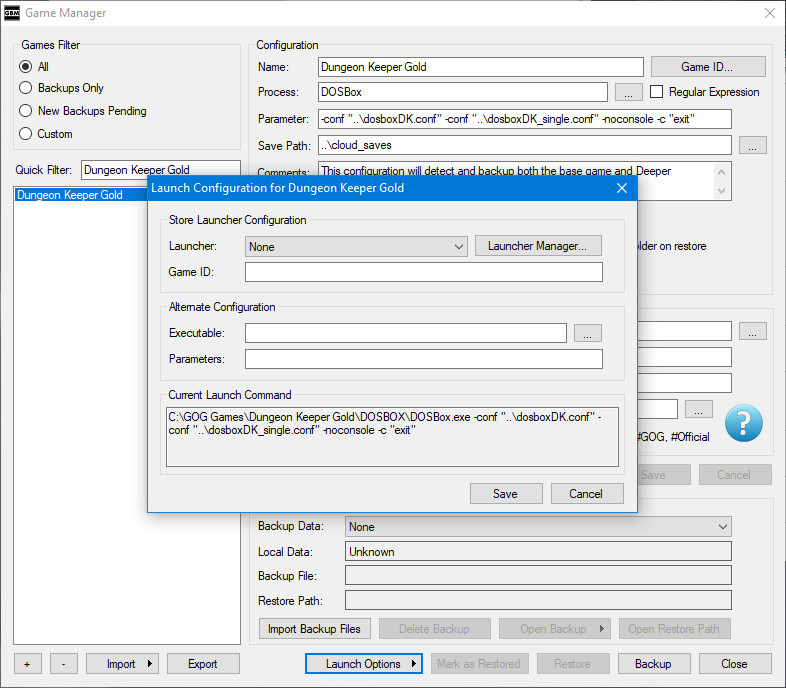
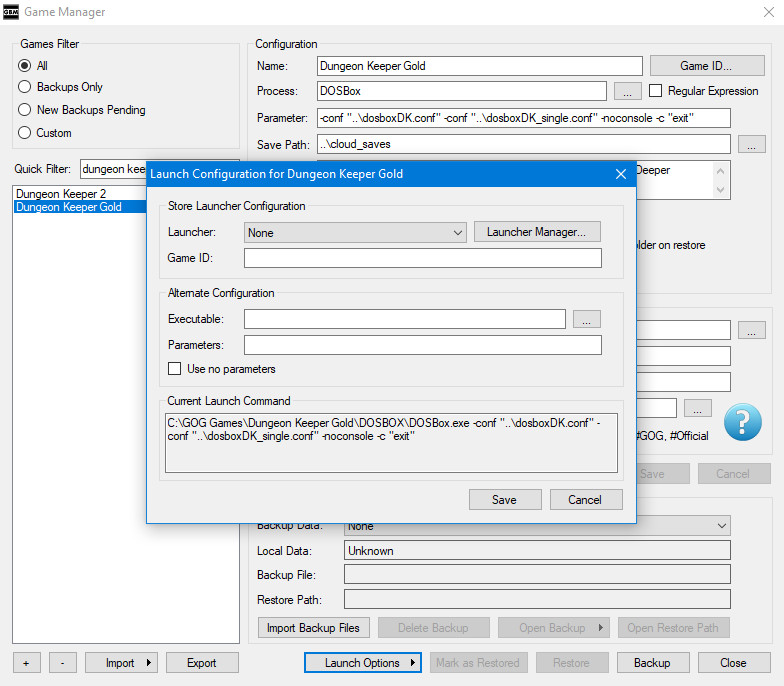
Various launcher updates

diff --git a/manual.html b/manual.html
@@ -80,8 +80,8 @@
           </div>
           <div class="pageSectionContent">
             <h4 class="notop">Verified Operating Systems:</h4>
-            <p>Windows 10, Ubuntu 18.04</p>
-            <a href="http://www.microsoft.com/en-us/windows/default.aspx"><img class="logo" src="images/win10_logo.png" width="64" height="64" alt="Windows 10" /></a><a href="http://www.ubuntu.com"><img class="logo" src="images/ubuntu_logo.png" width="64" height="64" alt="Ubuntu" /></a>
+            <p>Windows 10, Linux Mint 20</p>
+            <a href="http://www.microsoft.com/en-us/windows/default.aspx"><img class="logo" src="images/win10_logo.png" width="64" height="64" alt="Windows 10" /></a><a href="http://www.linuxmint.com"><img class="logo" src="images/mint_logo.png" width="64" height="64" alt="Linux Mint" /></a>
             <p class="small">These operating systems are tested during development with the latest stable versions of <a href="https://dotnet.microsoft.com/download" target=_blank>.NET Framework</a> (Windows) and <a href="https://www.mono-project.com/download/stable/" target=_blank>Mono</a> (Linux).</p>
             <h4>Supported Operating Systems:</h4>
             <p>Windows 8, Windows 7, Windows Vista SP1, Windows XP SP3, Other Linux Distributions</p><a href="http://www.microsoft.com/en-us/windows/default.aspx"><img class="logo" src="images/oldwindows_logo.png" width="64" height="64" alt="Old Windows" /></a><a href="http://www.linux.com/"><img class="logo" src="images/linux_logo.png" width="64" height="64" alt="Linux" /></a>
@@ -519,43 +519,47 @@
             <h3>Launch Configuration</h3>
             <p>GBM will usually be able to launch any monitored game that has been detected at least once without any extra configuration.  Advanced configuration options are also provided for fine tuning and to work around any problems that may be encountered.</p>            
             <p>The launch settings for any game can be modified from the Game Manager, by using the "Launch Options" button and choosing "Settings" to open "Launch Configuration".</p>
-            <img class="manual" src="images/manual/manual_28.jpg" width="786" height="688" alt="Launch Configuration" />
+            <img class="manual" src="images/manual/manual_28.jpg" width="784" height="686" alt="Launch Configuration" />
             <h4>Store Launcher Configuration</h4>
             <p>This section allows you to configure a game to be launched directly from the store client where it was purchased.  This is sometimes required due to <a href="https://en.wikipedia.org/wiki/Digital_rights_management" target=_blank>DRM issues</a> or bugs that occur when a game doesn't support launching the executable directly.  This will be explained in the "Launcher Manager" and "Determining the Command & Game ID" sections below.</p>
             <h4>Alternate Configuration</h4>
-            <p>This section allows you to manually configure a game to use an alternate executable and/or command parameters.</p>
+            <p>This section allows you to manually configure a game to use an alternate executable/script and customize how command parameters are to be handled.</p>
             <h4>Current Launch Command</h4>
             <p>This section displays the command that GBM will use to launch the game.  This field cannot be edited directly, it is provided for troubleshooting and informational purposes.</p>
             <p>GBM uses a priority system to build the launch command based on the information it has available.</p>
             <ol>
               <li>When an external store launcher and game ID are set, it has top priority and will be used to launch the game.</li>
-              <li>When an alternate executable is set, it has secondary priority and will be used to launch the game.</li>
+              <li>When an alternate executable is set, it has secondary priority.</li>
               <li>When no other information is available, GBM will use the "Process" and "Game Path" from the game configuration to automatically build the launch command.</li>                           
             </ol>
             <p>Parameters (Arguments) are also added to the command based on a priorty system.</p>
             <ol>              
               <li>When alternate parameters are set, they have first priority and will be added to the command.</li>
               <li>When alternate parameters are not set, GBM will use the "Parameter" field from the game configuration to automatically build the launch command.</li>
+              <li>When the "Use no parameter" option is checked, no parameters are added to the command.  This can be useful when using a script that already contains the parameters to launch the game.</li>
               <li>When an external store launcher and game ID are set, no parameters are added to the command.  They must be configured in the launcher you are calling, such as Steam.</li>
             </ol>
-            <h4>Launcher Manager</h4>
-            <p>The "Launcher Manager" is used to configure external launchers you may need for launching games.</p>
+            <h3>Launcher Manager</h3>
+            <p>The "Launcher Manager" is used to configure common external launchers you may need for launching games.</p>
             <p>Some popular store launchers will be automatically added and configured for your convenience.</p>
-            <img class="manual" src="images/manual/manual_29.jpg" width="586" height="228" alt="Launcher Manager" /><br />
-            <p>The launcher you want to add must support being triggered via a URI command.  Launchers that are called directly by their executable are not supported.</p>
+            <img class="manual" src="images/manual/manual_29.jpg" width="586" height="228" alt="Launcher Manager" />
             <h4>Name:</h4>
             <p>This field is an identifier for the launcher, it must be unique.</p>
             <h4>Command:</h4>
-            <p>This field is the URI command used to trigger a game launch from this particular launcher.</p>
+            <p>This field is the URI command used to trigger a game launch from this particular launcher.  Currently, only launchers that can be triggered with a URI are supported.</p>
             <p>The %ID% variable should replace the part of the command that contains the ID of the game being launched.</p>                              
             <p>If the %ID% variable is missing, GBM will assume it belongs at the end of the command.</p>
             <h4>Add Defaults</h4>
-            <p>If you accidently deleted any of the default launchers, you can easily re-add them using this button.</p>
+            <p>If you accidently deleted any of the default launchers, you can easily re-add them using this button.</p>            
             <h3>Determining the Command & Game ID</h3>
             <p>The best way to determine both the command used by a launcher and the ID of the game you want to launch, is to create a shortcut for the game from the launcher and view the properties.</p>
             <img class="manual" src="images/manual/manual_31.jpg" width="363" height="509" alt="Launcher Shortcut" /><br />            
             <p>The URL field will contain the command used to trigger the launcher.  You can usually determine the game ID based on the context of the command.</p>
-            <img class="manual" src="images/manual/manual_30.jpg" width="491" height="338" alt="Lanucher Configuration" />
+            <img class="manual" src="images/manual/manual_30.jpg" width="491" height="363" alt="Store Launcher Configuration" /><br />
+            <p>The "Current Launch Command" should match the shortcut once you've configured everything properly.</p>
+            <h3>Unsupported Launchers</h3>
+            <p>Launchers that are called directly by their executable to start a game (such as GOG Galaxy) are not currently supported.  However, you can still trigger a game to start with an unsupported launcher by using alternate executables and parameters on the "Launch Configuration" screen.</p>
+            <img class="manual" src="images/manual/manual_32.jpg" width="491" height="363" alt="Unsupported Lanucher Configuration" /><br />            
           </div>
           <div class="pageSectionFooter">
             <a href="#toc">Back to Contents</a>

diff --git a/launcher.html b/launcher.html
@@ -30,7 +30,7 @@
       <div id="leftcontent">
         <div class="pageSection">
           <div class="pageSectionHeader">
-            Game Launcher F.A.Q
+            Launcher F.A.Q
           </div>
           <div class="pageSectionContent">
             <p class="large">Why would I use Game Backup Monitor to my launch games?</p>
@@ -41,7 +41,7 @@
             </ul>
             <p class="large">Why can't I launch games with Game Backup Monitor?</p>
             <ul>
-              <li>The game launcher feature is disabled by default, it must be enabled in the General section of File -> Settings.</li>
+              <li>The game launching feature is disabled by default, it must be enabled in the General section of File -> Settings.</li>
               <li>This feature relies on the optional "Session Tracking" feature, it must be enabled as well.</li>
             </ul>
             <p class="large">How do I launch games with Game Backup Monitor?</p>
@@ -51,7 +51,7 @@
             </ul>
             <p class="large">Why do I always get an error about missing information when trying to launch my games?</p>
             <ul>
-              <li>Unless you manually provided the information required to launch a game, it needs to be detected for at least one session before GBM has enough information to launch it.</li>
+              <li>Unfortunately, most games will need to be detected for at least one session in v1.2.4 before GBM has enough information to automatically launch it.  You can also manually provide the information required to launch a game in the Game Manager.</li>
             </ul>
             <p class="large">Why can't I launch a game even after it's been detected once?</p>
             <ul>
@@ -61,11 +61,11 @@
             <ul>
               <li>This is a problem with certain games purchased on services such as Steam or Epic Game Store.</li>
               <li>Some games will simply refuse to work properly when launched directly from their executable and they need to launched with their respective store client.  This can be DRM related or simply a bug.</li>
-              <li>GBM supports launching games using any store client, but the game must be manually configured to do so in the Game Manager.  Please see the <a href="manual.html#launcher">manual</a> for more details.</li>
+              <li>GBM supports launching games through compatible store clients, but the game must be manually configured to do so in the Game Manager.  Please see the <a href="manual.html#launcher">manual</a> for more details.</li>
             </ul>            
-            <p class="large">I need to launch certain games as Administrator.  Is this supported?</p>
+            <p class="large">I need to launch certain games as Administrator or with compatability settings.  Is this supported?</p>
             <ul>
-              <li>Yes.  Any game flagged to "Run As Administrator" will request elevation as it normally does.</li>
+              <li>Yes.  Any game executable flagged to "Run As Administrator" will request elevation as it normally does and will use any compatability settings.</li>
               <li>In addition, any game launched while GBM is running as Administrator will automatically launch as Administrator.  However this is not recommended, and GBM will ask for confirmation before every launch.</li>
             </ul>
             <p class="large">I don't understand how Game Backup Monitor is launching my games.  How does this work?</p>
@@ -74,7 +74,7 @@
                 <ol>
                   <li>If a game has been manually configured to use a store client, it will be used to launch the game.</li>
                   <li>If a game has been manually configured to use an alternate executable, it will be used to launch the game.</li>
-                  <li>If no information has been manually configured, the detected <b>Game Path</b> along with the configured <b>Process</b> and <b>Parameter</b> will be used to launch the game.</li>
+                  <li>If no information has been manually configured, the detected <b>Game Path</b> along with the configured <b>Process</b> will be used to launch the game.</li>
                 </ol>                
               </li>
               <li>Please see the <a href="manual.html#launcher">manual</a> for more details and advanced information.</li>

diff --git a/header.html b/header.html
@@ -16,7 +16,8 @@
 		<li><a href="contribute.html">Contribute</a></li>
         <li class="menuhover"><a href="#">FAQs</a><span></span>
 	    	<ul class="subnav">
-                <li><a href="faq.html">General</a></li>
+				<li><a href="faq.html">General</a></li>
+				<li><a href="launcher.html">Launcher</a></li>
                 <li><a href="translations.html">Translation</a></li>
                 <li><a href="linux.html">Linux</a></li>
                 <li><a href="wine.html">Wine</a></li>
